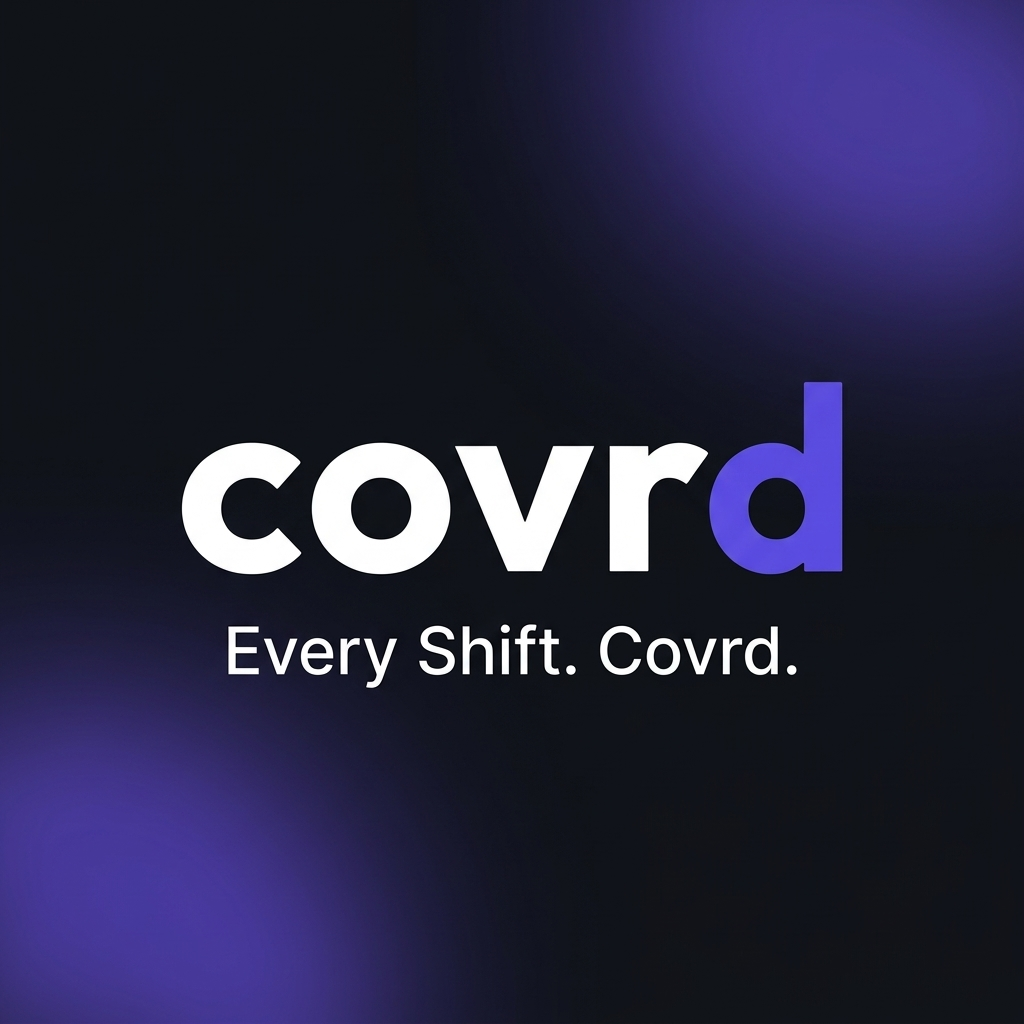
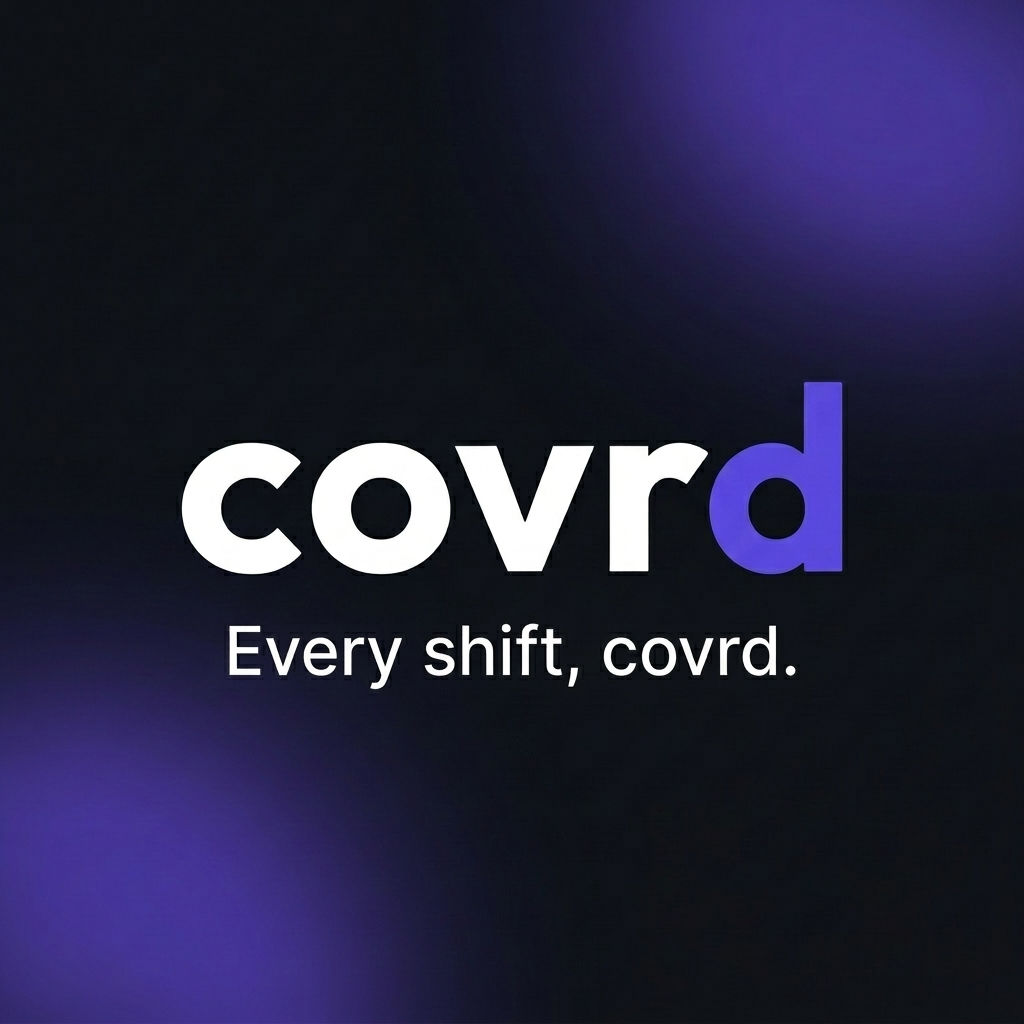
docs(screenshots): bypass onboarding modal and successfully load demo data context

Changed region(s): [[0.2188, 0.5938, 0.7812, 0.6875]]

diff --git a/docs/brand/BRAND_GUIDE.md b/docs/brand/BRAND_GUIDE.md
@@ -4,7 +4,7 @@
 
 **Covrd** is a privacy-first, client-side-only staff scheduling application. The brand communicates quiet confidence, technical precision, and trustworthiness.
 
-**Tagline:** Every shift. Covrd.
+**Tagline:** Every shift, covrd.
 
 **Positioning:** Covrd is not another clunky scheduling tool. It is a private, intelligent, and elegant utility that respects both the manager's time and their team's data.
 
